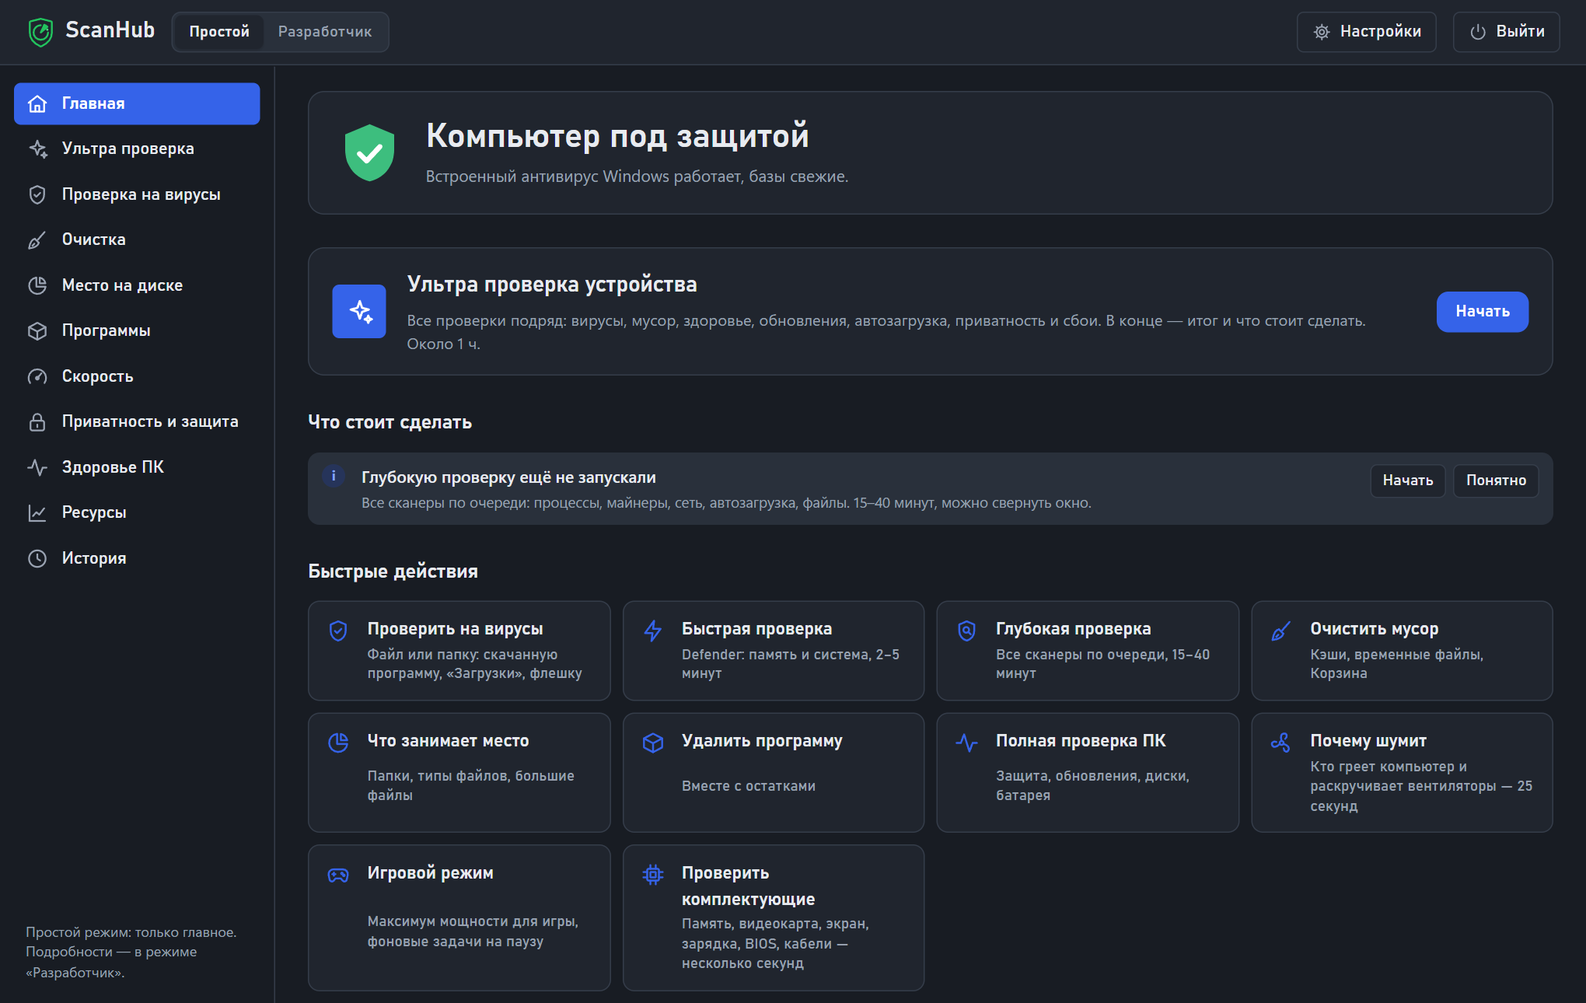
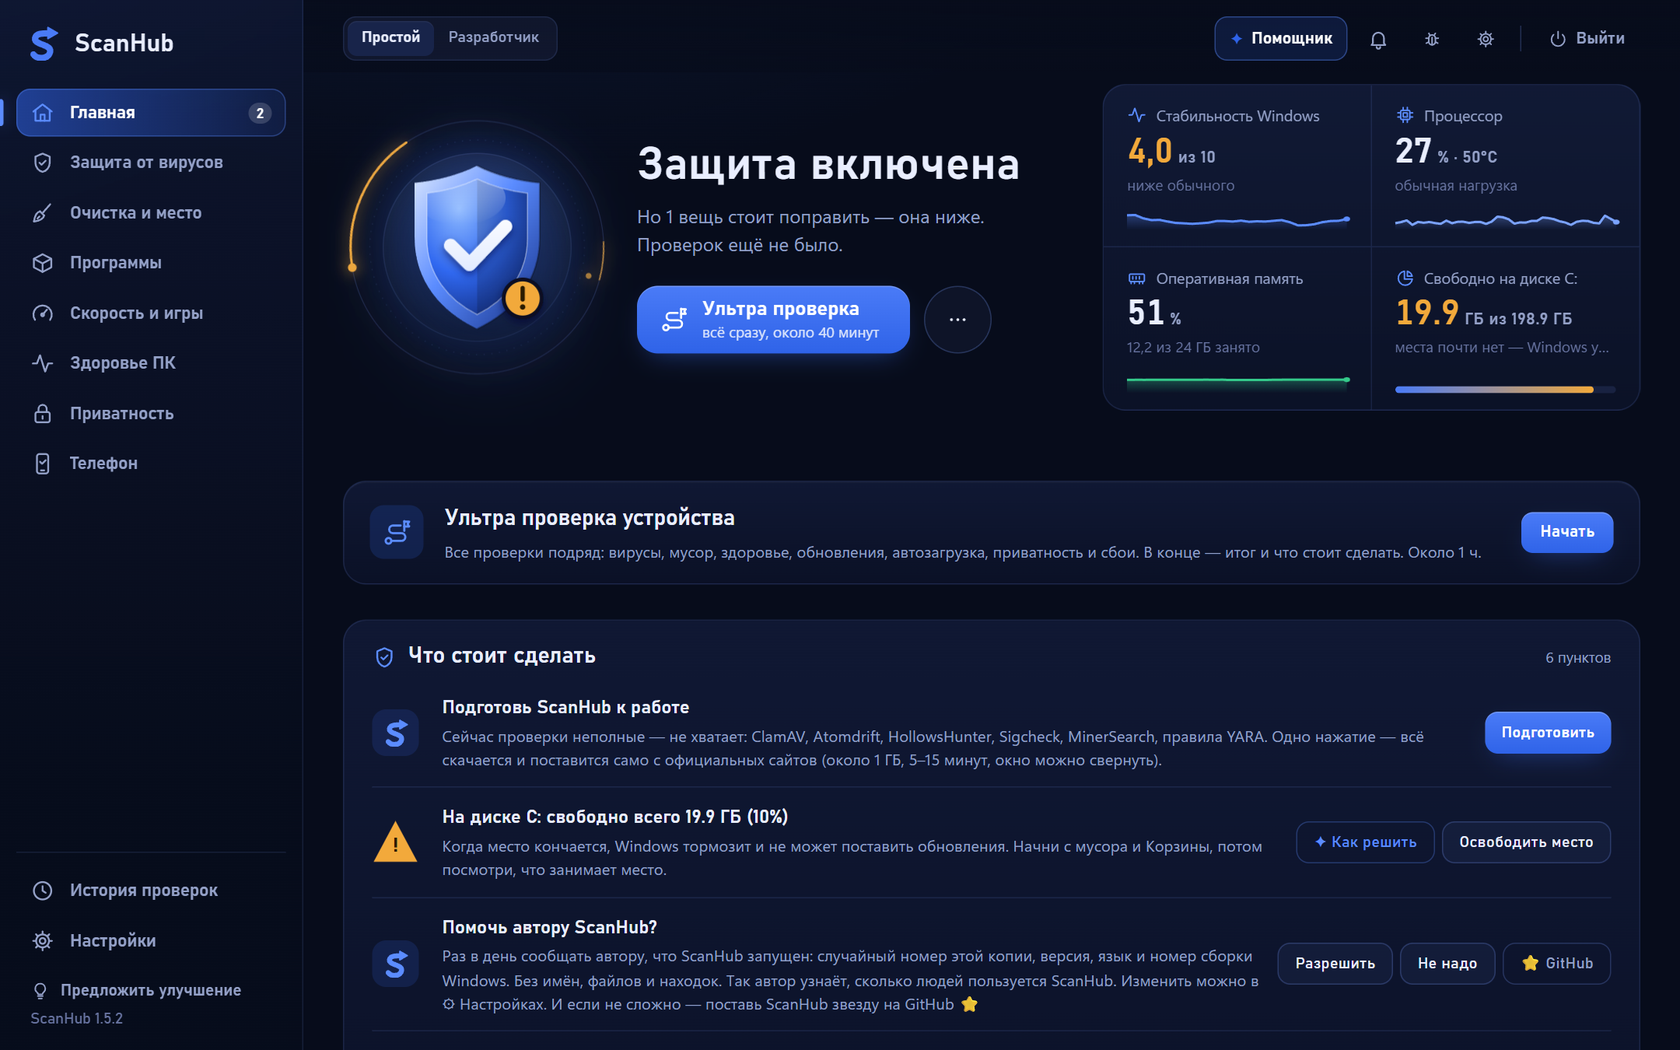
ScanHub 2.0.0: оформление «Ночная смена», живой щит, разделы по задачам

diff --git a/ui/app.css b/ui/app.css
@@ -1372,3 +1372,10 @@ button.round{width:58px;height:58px;padding:0;border-radius:50%;display:grid;pla
   .hero-text h2{font-size:28px}
 }
 dialog label.switch{display:flex;align-items:flex-start;gap:10px} dialog label.switch input{width:auto;margin-top:3px;flex:none}
+/* средние окна: щит и показатели делят ширину, заголовок не ломается */
+.home-top{grid-template-columns:minmax(0,1fr) minmax(330px,clamp(330px,32vw,500px))}
+.hero-text h2{font-size:clamp(30px,2.7vw,42px)}
+.hero-actions{flex-wrap:nowrap}
+@media (max-width:1500px){.shield-wrap{width:230px;height:230px} .shield-wrap .shield{width:130px;height:150px} .view .hero{gap:22px}}
+@media (max-width:1200px){.home-top{grid-template-columns:minmax(0,1fr)}}
+@media (max-width:620px){.hero-actions{flex-wrap:wrap}}

diff --git a/scanhub.py b/scanhub.py
@@ -6,7 +6,7 @@
 import ctypes
 import sys
 
-VERSION = "1.5.2"
+VERSION = "2.0.0"
 # репозиторий на GitHub (владелец/имя), где выходят новые версии ScanHub; пусто — проверка обновлений ScanHub выключена
 UPDATE_REPO = "Parzifalai/ScanHub"
 

diff --git a/README.md b/README.md
@@ -25,18 +25,20 @@
 
 ## Что умеет
 
+- **Главная за одну секунду (2.0):** живой щит честно показывает состояние — «всё в порядке», «есть что поправить» или «найдена угроза»; во время проверки по нему бежит луч, а кольцо заполняется процентами. Рядом — стабильность Windows, процессор, память и свободное место с графиками; нажатие открывает подробную нагрузку. Ниже — «Что стоит сделать» и быстрые действия.
+- **Понятные разделы:** «Защита от вирусов», «Очистка и место», «Программы», «Скорость и игры», «Здоровье ПК», «Приватность», «Телефон» — всё сгруппировано по задачам, а не по устройству программы.
 - **Проверка на вирусы.** Файл или папка проверяются сразу несколькими движками (Microsoft Defender, ClamAV, YARA, Atomdrift, цифровая подпись, онлайн-сверка по хэшу) с общим итогом «можно запускать / лучше не запускать». Глубокая и «ультра» проверка всей системы, мастер исправлений.
 - **Сторонние сканеры** в один клик: Kaspersky VRT, Dr.Web CureIt!, ESET, Emsisoft, Malwarebytes, AdwCleaner, MinerSearch, Microsoft Safety Scanner, HollowsHunter, Autoruns, HiJackThis+ и другие. Скачиваются с официальных сайтов с проверкой подписи и контрольной суммы.
 - **Поиск угроз, которых не видят антивирусы:** соединения с серверами вирусов (базы Maltrail), программы с поддельных сайтов (FMHY), уязвимые драйверы (LOLDrivers), вредоносные расширения браузеров (MalExt), поддельные корневые сертификаты (Sigcheck), утёкшие ключи в проектах (TruffleHog), вредоносные пакеты npm/pip (OSV).
 - **Защита Windows:** проверка и включение встроенных защит (защита от подмены, целостность памяти, LSA, SmartScreen, блок-лист драйверов…), приватность, брандмауэр, автозагрузка — всё с «вернуть как было».
 - **Проверка до запуска:** правая кнопка по файлу или папке → «Проверить в ScanHub» (включается в ⚙ Настройках).
 - **История здоровья:** износ батареи за годы, место на дисках, индекс стабильности и сбои по дням — с трендами («батарея теряет 0,4% в месяц», «диск заполнится через …»).
-- **Обслуживание:** очистка мусора с объяснениями, место на диске, дубликаты, удаление программ с остатками, обновление программ, здоровье ПК и сбои, ресурсы.
+- **Обслуживание:** очистка мусора с объяснениями, место на диске, дубликаты, удаление программ с остатками, обновление программ и автозагрузка, здоровье ПК и сбои, нагрузка на компьютер.
 - **Проверка телефона** (Android по кабелю, через отладку по USB): приложения-следилки (база stalkerware-indicators), приложения не из магазина (с проверкой в VirusTotal по хэшу), кто получил спец. возможности, права администратора и доступ к уведомлениям, root и разблокированный загрузчик, давность обновлений безопасности, батарея и память. На телефон ничего не ставится; удалить приложение или снять с него доступ — только по кнопке.
 - **Устройства** (Здоровье ПК → Устройства): клавиатура, мышь и тачпад, микрофон, звук, камера, Bluetooth — работают ли и почему нет; живые проверки прямо в окне (уровень микрофона и запись на 3 секунды, все клавиши и «дребезг», кнопки мыши, двойной щелчок сам по себе и частота опроса, звук слева/справа, картинка с камеры); кто недавно включал микрофон и камеру.
-- **«Почему тормозит интернет»** (Скорость → Интернет): пинг до роутера и в интернет, потери, DNS, Wi‑Fi, VPN и скорость — с понятным выводом, где именно проблема.
+- **«Почему тормозит интернет»** (Скорость и игры → Интернет): пинг до роутера и в интернет, потери, DNS, Wi‑Fi, VPN и скорость — с понятным выводом, где именно проблема.
 - **Отчёт ультра проверки в PDF** и сравнение с прошлой проверкой: что исправлено, что появилось нового.
-- **«Что изменил ScanHub»** (Приватность и защита): все изменения системы списком, с датой и кнопкой «Отменить» — настройки, автозагрузка, брандмауэр, PATH, удалённые записи программ.
+- **«Что изменил ScanHub»** (Приватность → Что изменил ScanHub): все изменения системы списком, с датой и кнопкой «Отменить» — настройки, автозагрузка, брандмауэр, PATH, удалённые записи программ.
 - **Обновление в одну кнопку:** когда выходит новая версия, на главной появляется «Обновить» — ScanHub скачает её отсюда, сверит контрольную сумму и поставит поверх, ключи и история останутся.
 - **Русский и английский интерфейс** — переключатель в самом начале ⚙ Настроек (*English interface: ⚙ Settings → Language, at the top*).
 - **ИИ-помощник (по желанию).** Кнопка «✦ Как решить» у любой находки (коротко: причина, шаги и кнопка автоматического решения, если ScanHub может сделать это сам — с подтверждением) и чат «Спроси про свой ПК»: помощник сам смотрит журналы Windows, сбои, датчики, место, защиту, браузеры, карантин и — если разрешишь — файлы и папки. Сам он ничего не меняет — только читает и советует. Если ScanHub может исправить проблему сам, у ответа появятся кнопки действий и **«✦ Сделай сам»**: помощник выполнит только эти действия по очереди и проверит результат — через те же проверки и окна UAC, что и кнопки ScanHub, с записью в «Что изменил ScanHub». Модель на выбор: бесплатный Gemini; **Claude или ChatGPT по своей подписке** (ScanHub запускает официальные Claude Code или Codex, в которые ты вошёл, — запросы идут в лимиты подписки; у агента нет командной строки — данные он берёт инструментами ScanHub, а справки может искать в интернете, это выключается в настройках помощника); по ключу API — Claude, OpenAI, OpenRouter, DeepSeek; или локально Ollama.
@@ -78,7 +80,7 @@
 
 ## Удаление
 
-⚙ Настройки → **«Удалить ScanHub с компьютера…»**. ScanHub уберёт всё, что добавлял вне своей папки (пункт в меню правой кнопки, ярлыки, задачи планировщика, блокировку в файле hosts, папки в Program Files и ProgramData), и по желанию удалит саму папку. Изменения настроек Windows останутся — их можно заранее отменить в «Приватность и защита → Что изменил ScanHub». Просто удалить папку тоже можно, но тогда пункт меню и задачи планировщика останутся.
+⚙ Настройки → **«Удалить ScanHub с компьютера…»**. ScanHub уберёт всё, что добавлял вне своей папки (пункт в меню правой кнопки, ярлыки, задачи планировщика, блокировку в файле hosts, папки в Program Files и ProgramData), и по желанию удалит саму папку. Изменения настроек Windows останутся — их можно заранее отменить в «Приватность → Что изменил ScanHub». Просто удалить папку тоже можно, но тогда пункт меню и задачи планировщика останутся.
 
 ## Права администратора
 

diff --git a/CHANGELOG.md b/CHANGELOG.md
@@ -2,6 +2,25 @@
 
 Текст раздела новой версии попадает в описание выпуска на GitHub — его ScanHub показывает в окне «Обновить ScanHub».
 
+## 2.0.0
+
+**Новое оформление «Ночная смена»**
+- Тёмный интерфейс с мягким свечением: меню разделов на всю высоту слева, шапка с помощником, предупреждениями, «Ошибка или идея?», настройками и выходом; крупные понятные заголовки и вкладки.
+- **Живой щит на главной.** Честно показывает состояние: синий с галочкой — всё в порядке; с жёлтым значком — есть что поправить; красный — найдена угроза или выключена защита. Во время ультра, глубокой или проверки файла по щиту бежит луч, кольцо заполняется, в середине — проценты; в конце — вспышка и новая отметка рисуется штрихом. Щит слегка наклоняется и бликует за мышью. Цвета перетекают плавно, а при настройке Windows «меньше анимации» всё стоит на месте.
+- **Показатели рядом со щитом:** стабильность Windows, процессор, оперативная память, свободное место на системном диске — с графиками; нажатие открывает «Скорость и игры → Нагрузка сейчас».
+- «Что стоит сделать» — одной панелью, у каждого пункта знак формой и цветом (треугольник — стоит исправить, круг — к сведению, восьмиугольник — срочно). Быстрые действия: четыре главных крупно, остальные — «Все быстрые действия».
+
+**Разделы пересобраны по задачам**
+- Было 12 разделов, стало 7 + история проверок и настройки внизу меню:
+  - **Защита от вирусов** — проверка, ультра и глубокая проверка, проверить программу, карантин, браузеры, Защита Windows (вместе с брандмауэром и защитой от майнеров);
+  - **Очистка и место** — мусор и кэши, что занимает место, дубликаты и пустые папки, битые ярлыки, старые драйверы;
+  - **Программы** — удаление, обновления, автозагрузка (перенесена из «Скорости»), встроенные приложения, меню правой кнопки;
+  - **Скорость и игры** — игровой режим и FPS, нагрузка сейчас (бывшие «Ресурсы»), почему шумит, память, интернет;
+  - **Здоровье ПК** — обзор, сбои и ошибки, устройства, комплектующие и драйверы (вместе), компоненты для программ, история, предупреждения;
+  - **Приватность** — слежка Windows, точки восстановления, что изменил ScanHub;
+  - **Телефон**.
+- Старые ссылки из подсказок, предупреждений и ответов помощника сами ведут на новые места; помощник знает новую карту разделов.
+
 ## 1.5.2
 
 **Исправлено**
